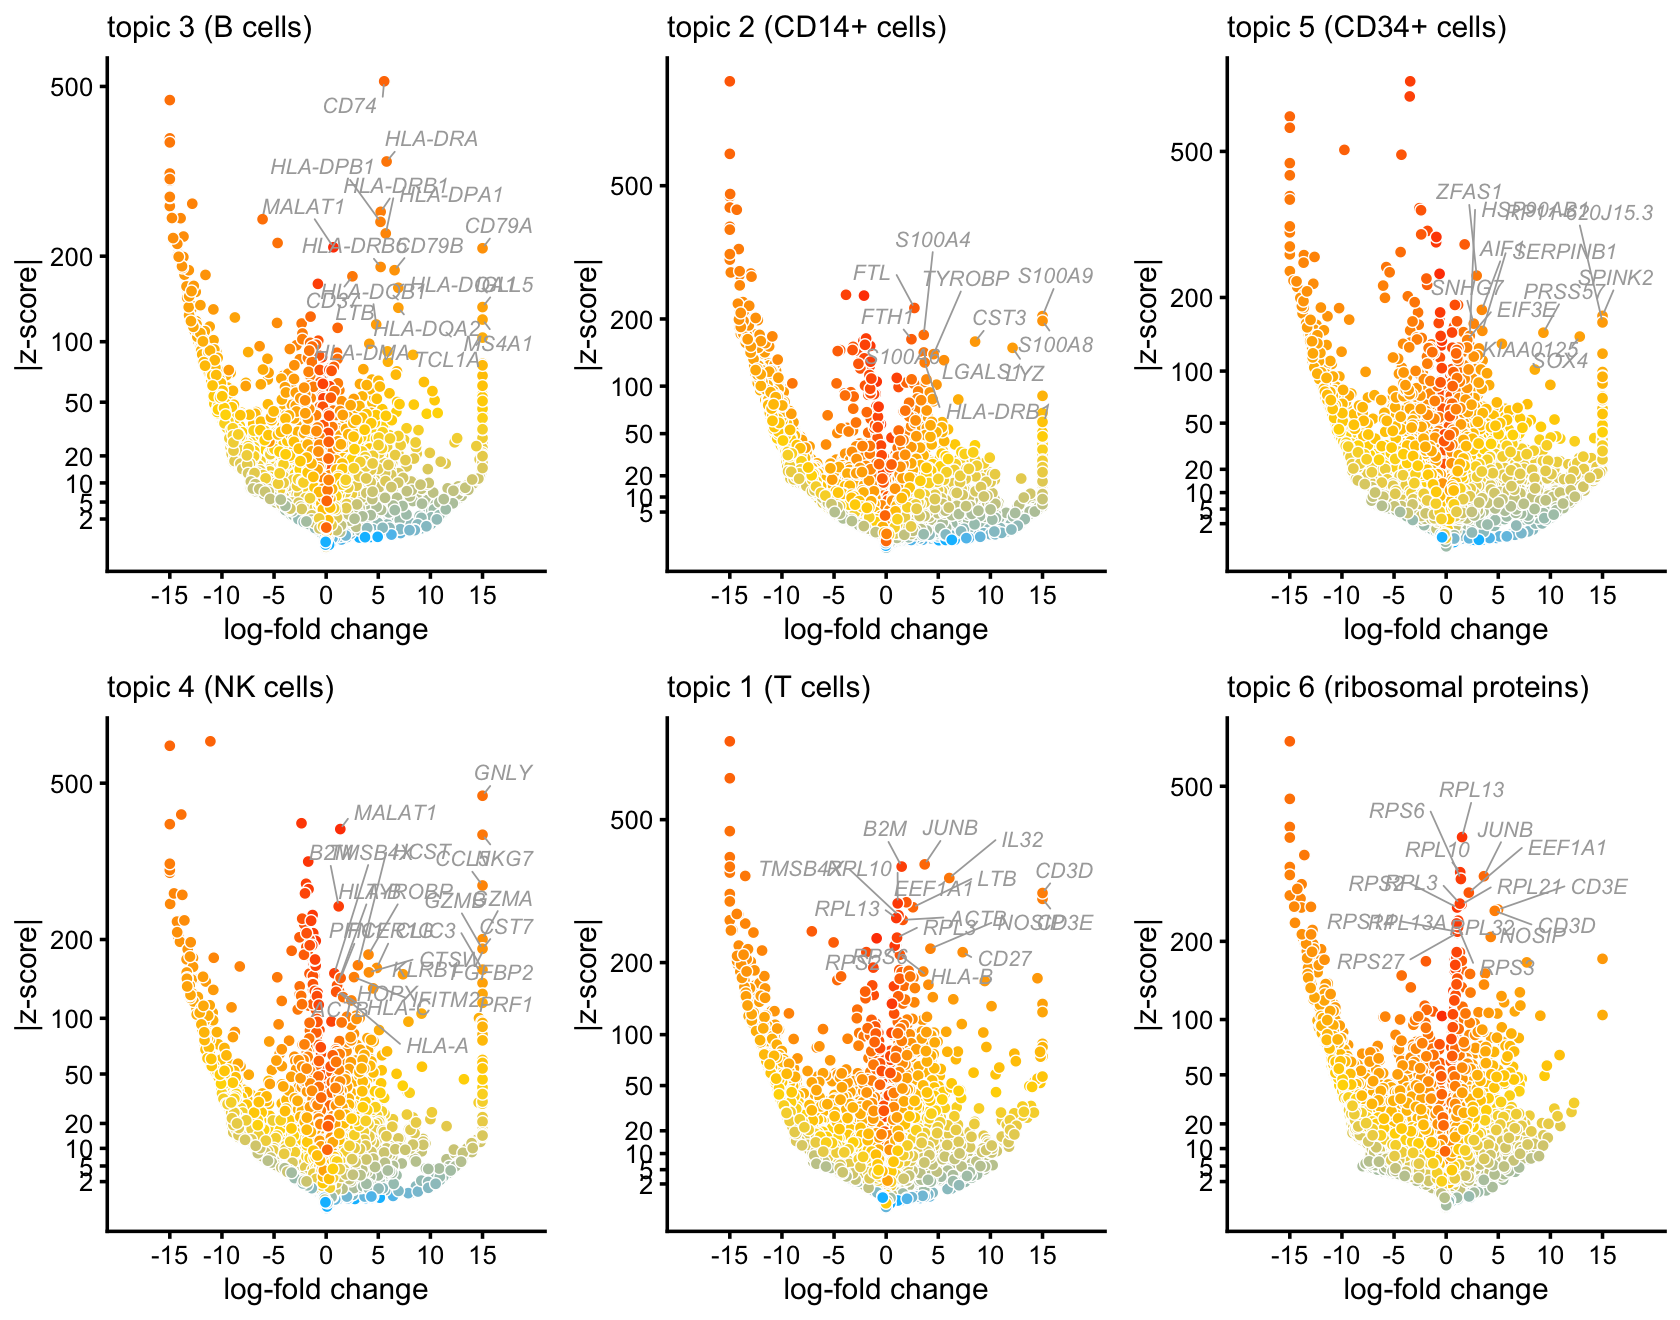
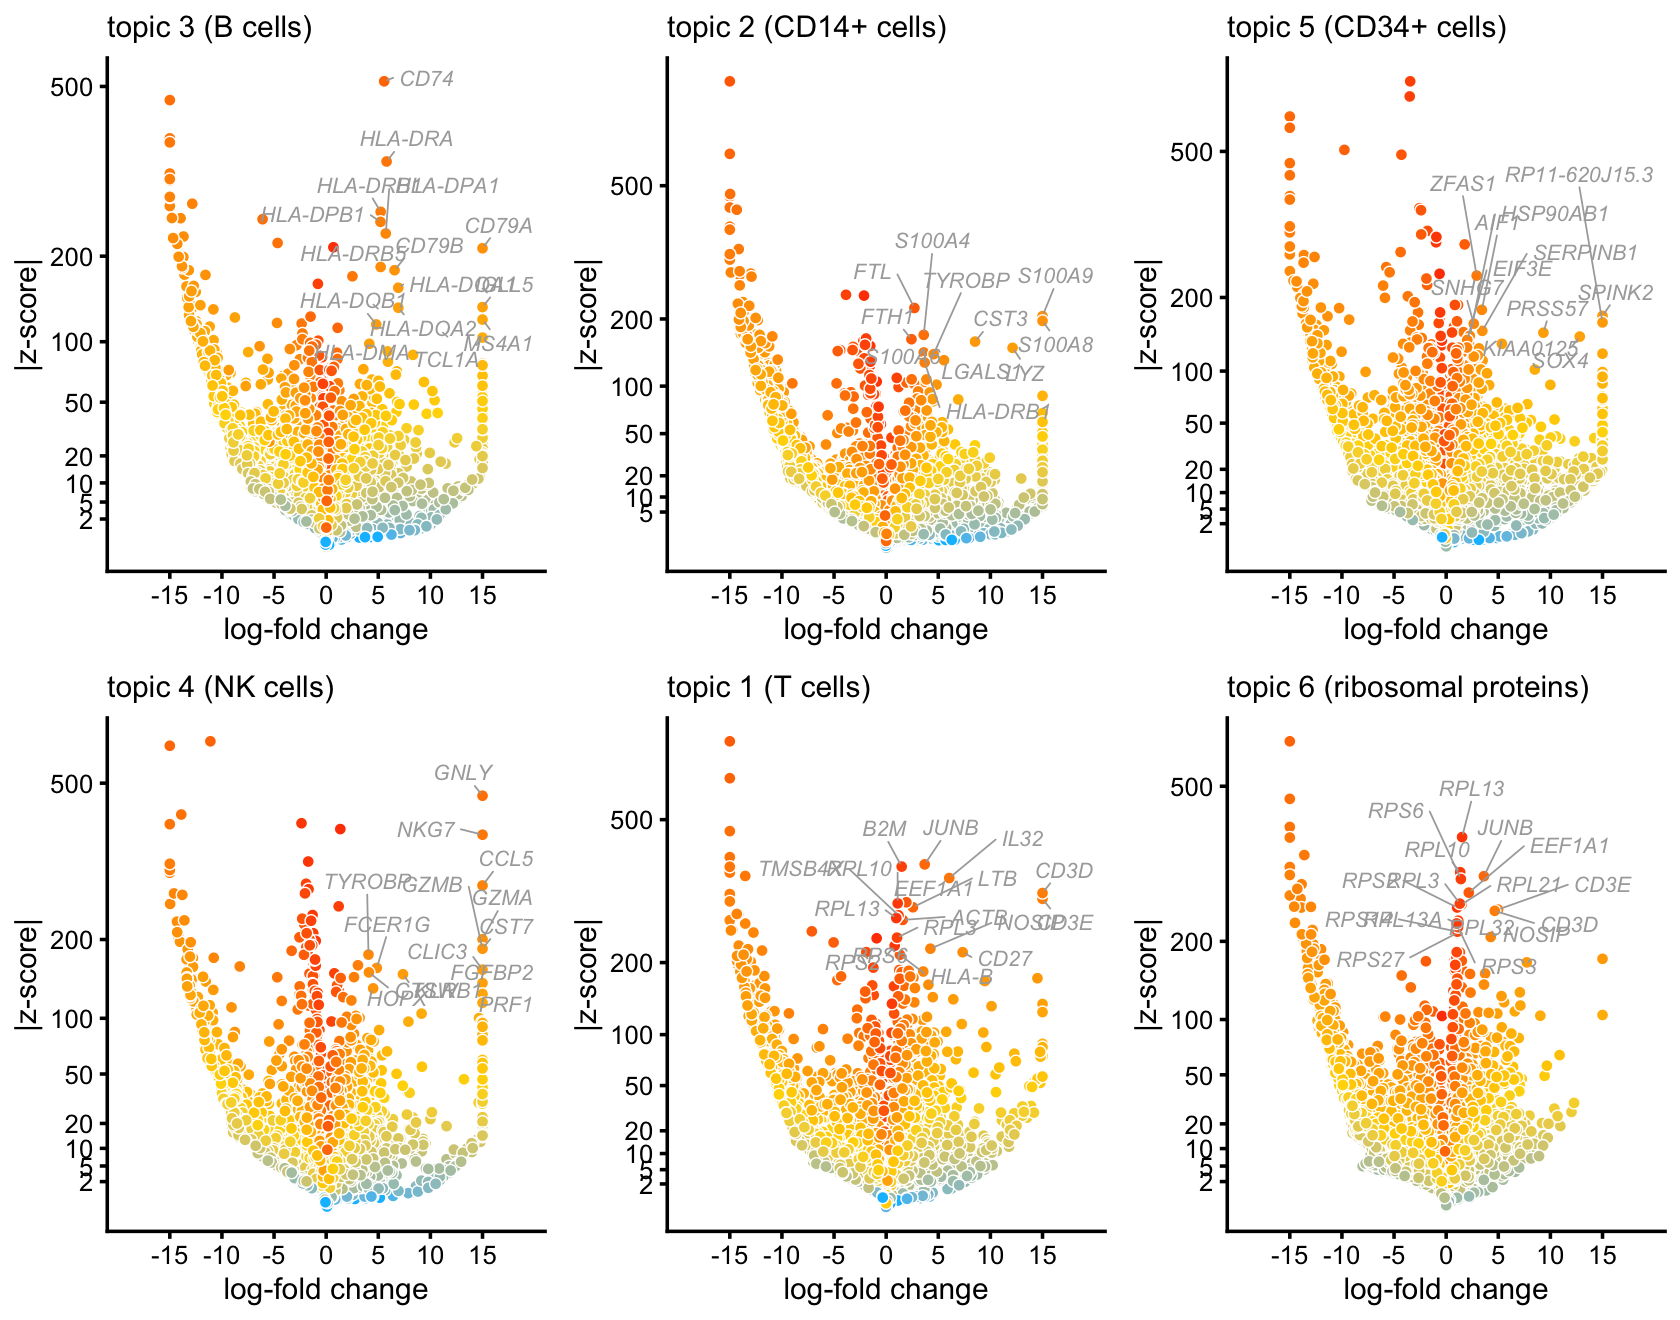
Re-built the plots_purified_pbmc analysis with the revised volcano plots.

diff --git a/docs/plots_purified_pbmc.html b/docs/plots_purified_pbmc.html
@@ -406,6 +406,9 @@ diff-count-analysis-subpop
 <li>
 diff-count-analysis-topics
 </li>
+<li>
+gsea-3
+</li>
 </ul>
 <p>To ensure reproducibility of the results, delete the cache directory <code>plots_purified_pbmc_cache</code> and re-run the analysis. To have workflowr automatically delete the cache directory prior to building the file, set <code>delete_cache = TRUE</code> when running <code>wflow_build()</code> or <code>wflow_publish()</code>.</p>
 </div>
@@ -426,23 +429,22 @@ diff-count-analysis-topics
 <div class="panel panel-default">
 <div class="panel-heading">
 <p class="panel-title">
-<a data-toggle="collapse" data-parent="#workflowr-checks" href="#strongRepositoryversionstrongahrefhttpsgithubcomstephenslabsinglecelltopicstree3d7de4182e5261c9c7c515c3bfb50331e818745ftargetblank3d7de41a"> <span class="glyphicon glyphicon-ok text-success" aria-hidden="true"></span> <strong>Repository version:</strong> <a href="https://github.com/stephenslab/single-cell-topics/tree/3d7de4182e5261c9c7c515c3bfb50331e818745f" target="_blank">3d7de41</a> </a>
+<a data-toggle="collapse" data-parent="#workflowr-checks" href="#strongRepositoryversionstrongahrefhttpsgithubcomstephenslabsinglecelltopicstreef79d2e8095d0c8b3b553b0156d90eb553f937925targetblankf79d2e8a"> <span class="glyphicon glyphicon-ok text-success" aria-hidden="true"></span> <strong>Repository version:</strong> <a href="https://github.com/stephenslab/single-cell-topics/tree/f79d2e8095d0c8b3b553b0156d90eb553f937925" target="_blank">f79d2e8</a> </a>
 </p>
 </div>
[2 lines of base64/hex data omitted]
 <div class="panel-body">
 <p>
 Great! You are using Git for version control. Tracking code development and connecting the code version to the results is critical for reproducibility.
 </p>
 <p>
-The results in this page were generated with repository version <a href="https://github.com/stephenslab/single-cell-topics/tree/3d7de4182e5261c9c7c515c3bfb50331e818745f" target="_blank">3d7de41</a>. See the <em>Past versions</em> tab to see a history of the changes made to the R Markdown and HTML files.
+The results in this page were generated with repository version <a href="https://github.com/stephenslab/single-cell-topics/tree/f79d2e8095d0c8b3b553b0156d90eb553f937925" target="_blank">f79d2e8</a>. See the <em>Past versions</em> tab to see a history of the changes made to the R Markdown and HTML files.
 </p>
 <p>
 Note that you need to be careful to ensure that all relevant files for the analysis have been committed to Git prior to generating the results (you can use <code>wflow_publish</code> or <code>wflow_git_commit</code>). workflowr only checks the R Markdown file, but you know if there are other scripts or data files that it depends on. Below is the status of the Git repository when the results were generated:
 </p>
 <pre><code>
 Ignored files:
-    Ignored:    analysis/figure/
     Ignored:    data/droplet.RData
     Ignored:    data/pbmc_68k.RData
     Ignored:    data/pbmc_purified.RData
@@ -460,14 +462,6 @@ Ignored files:
 
 Untracked files:
     Untracked:  analysis/plots_purified_pbmc_cache/
-    Untracked:  analysis/volcano_plot_purified_pbmc_bcells.html
-    Untracked:  analysis/volcano_plot_purified_pbmc_cd14.html
-    Untracked:  analysis/volcano_plot_purified_pbmc_cd34.html
-    Untracked:  analysis/volcano_plot_purified_pbmc_cd8.html
-    Untracked:  analysis/volcano_plot_purified_pbmc_dendritic.html
-    Untracked:  analysis/volcano_plot_purified_pbmc_nk.html
-    Untracked:  analysis/volcano_plot_purified_pbmc_ribosomal_proteins.html
-    Untracked:  analysis/volcano_plot_purified_pbmc_tcells.html
     Untracked:  plots/
 
 </code></pre>
@@ -507,6 +501,40 @@ Message
 </tr>
 </thead>
 <tbody>
+<tr>
+<td>
+Rmd
+</td>
+<td>
+<a href="https://github.com/stephenslab/single-cell-topics/blob/f79d2e8095d0c8b3b553b0156d90eb553f937925/analysis/plots_purified_pbmc.Rmd" target="_blank">f79d2e8</a>
+</td>
+<td>
+Peter Carbonetto
+</td>
+<td>
+2021-02-24
+</td>
+<td>
+workflowr::wflow_publish(“plots_purified_pbmc.Rmd”)
+</td>
+</tr>
+<tr>
+<td>
+html
+</td>
+<td>
+<a href="https://rawcdn.githack.com/stephenslab/single-cell-topics/7be2e951d43dd446b79ff12d090b01d837e6f9b0/docs/plots_purified_pbmc.html" target="_blank">7be2e95</a>
+</td>
+<td>
+Peter Carbonetto
+</td>
+<td>
+2021-02-24
+</td>
+<td>
+Rebuilt the plots_purified_pbmc analysis.
+</td>
+</tr>
 <tr>
 <td>
 Rmd
@@ -1251,7 +1279,8 @@ p2 &lt;- volcano_plot(diff_count_facs,&quot;CD14+ Monocyte&quot;,genes$symbol,
   guides(fill = &quot;none&quot;) +
   ggtitle(&quot;CD14+ cells&quot;)
 p3 &lt;- volcano_plot(diff_count_facs,&quot;CD34+&quot;,genes$symbol,
-                   betamax = 10,label_above_quantile = 0.995,
+                   betamax = 10,label_above_lfc = 2,
+                   label_above_quantile = 0.995,
                    subsample_below_quantile = 0.5) +
   guides(fill = &quot;none&quot;) +
   ggtitle(&quot;CD34+ cells&quot;)
@@ -1294,6 +1323,17 @@ Date
 </tr>
 </thead>
 <tbody>
+<tr>
+<td>
+<a href="https://github.com/stephenslab/single-cell-topics/blob/7be2e951d43dd446b79ff12d090b01d837e6f9b0/docs/figure/plots_purified_pbmc.Rmd/volcano-plots-1-1.png" target="_blank">7be2e95</a>
+</td>
+<td>
+Peter Carbonetto
+</td>
+<td>
+2021-02-24
+</td>
+</tr>
 <tr>
 <td>
 <a href="https://github.com/stephenslab/single-cell-topics/blob/6e2b53a4ce7c3997daf85bbed933269242aadcf4/docs/figure/plots_purified_pbmc.Rmd/volcano-plots-1-1.png" target="_blank">6e2b53a</a>
@@ -1451,43 +1491,36 @@ diff_count_clusters &lt;- diff_count_clusters(samples$cluster,counts)
                    subsample_below_quantile = 0.5) +
   guides(fill = &quot;none&quot;) +
   ggtitle(&quot;B cells&quot;)
-# 12074 out of 21952 data points will be included in plot
 p8 &lt;- volcano_plot(diff_count_clusters,&quot;CD14+&quot;,genes$symbol,betamax = 10,
                    label_above_quantile = 0.993,
                    subsample_below_quantile = 0.5) +
   guides(fill = &quot;none&quot;) +
   ggtitle(&quot;CD14+ cells&quot;)
-# 12074 out of 21952 data points will be included in plot
 p9 &lt;- volcano_plot(diff_count_clusters,&quot;CD34+&quot;,genes$symbol,betamax = 10,
-                   label_above_lfc = 4,label_above_quantile = 0.98,
+                   label_above_lfc = 4,label_above_quantile = 0.99,
                    subsample_below_quantile = 0.5) +
   guides(fill = &quot;none&quot;) +
   ggtitle(&quot;CD34+ cells&quot;)
-# 12074 out of 21952 data points will be included in plot
-p10 &lt;- volcano_plot(diff_count_clusters,&quot;dendritic&quot;,genes$symbol,
-                    label_above_lfc = 4,label_above_quantile = 0.95,
+p10 &lt;- volcano_plot(diff_count_clusters,&quot;dendritic&quot;,genes$symbol,betamax = 10,
+                    label_above_lfc = 4,label_above_quantile = 0.98,
                     subsample_below_quantile = 0.5) +
   guides(fill = &quot;none&quot;) +
   ggtitle(&quot;dendritic cells&quot;)
-# 12074 out of 21952 data points will be included in plot
-p11 &lt;- volcano_plot(diff_count_clusters,&quot;NK&quot;,genes$symbol,
-                    label_above_quantile = 0.995,
+p11 &lt;- volcano_plot(diff_count_clusters,&quot;NK&quot;,genes$symbol,betamax = 10,
+                    label_above_lfc = 2,label_above_quantile = 0.995,
                     subsample_below_quantile = 0.5) +
   guides(fill = &quot;none&quot;) +
   ggtitle(&quot;NK cells&quot;)
-# 12074 out of 21952 data points will be included in plot
-p12 &lt;- volcano_plot(diff_count_clusters,&quot;CD8+&quot;,genes$symbol,
+p12 &lt;- volcano_plot(diff_count_clusters,&quot;CD8+&quot;,genes$symbol,betamax = 10,
                     label_above_lfc = 2,label_above_quantile = 0.98,
                     subsample_below_quantile = 0.5) +
   guides(fill = &quot;none&quot;) +
   ggtitle(&quot;CD8+ T cells&quot;)
-# 12091 out of 21952 data points will be included in plot
-p13 &lt;- volcano_plot(diff_count_clusters,&quot;T&quot;,genes$symbol,
+p13 &lt;- volcano_plot(diff_count_clusters,&quot;T&quot;,genes$symbol,betamax = 10,
                     label_above_lfc = 2,label_above_quantile = 0.995,
                     subsample_below_quantile = 0.5) +
   guides(fill = &quot;none&quot;) +
   ggtitle(&quot;T cells&quot;)
-# 12074 out of 21952 data points will be included in plot
 plot_grid(p7,p8,p9,p10,p11,p12,p13,nrow = 3,ncol = 3)</code></pre>
 <p><img src="figure/plots_purified_pbmc.Rmd/volcano-plots-2-1.png" width="840" style="display: block; margin: auto;" /></p>
 <p>
@@ -1512,6 +1545,17 @@ Date
 </tr>
 </thead>
 <tbody>
+<tr>
+<td>
+<a href="https://github.com/stephenslab/single-cell-topics/blob/7be2e951d43dd446b79ff12d090b01d837e6f9b0/docs/figure/plots_purified_pbmc.Rmd/volcano-plots-2-1.png" target="_blank">7be2e95</a>
+</td>
+<td>
+Peter Carbonetto
+</td>
+<td>
+2021-02-24
+</td>
+</tr>
 <tr>
 <td>
 <a href="https://github.com/stephenslab/single-cell-topics/blob/6e2b53a4ce7c3997daf85bbed933269242aadcf4/docs/figure/plots_purified_pbmc.Rmd/volcano-plots-2-1.png" target="_blank">6e2b53a</a>
@@ -1663,7 +1707,7 @@ diff_count_topics &lt;- diff_count_analysis(fit_no_dendritic,counts[rows,])
 </div>
 <p>These volcano plots summarize the results of the differential expression analysis using the topic model:</p>
 <pre class="r"><code>p14 &lt;- volcano_plot(diff_count_topics,&quot;k3&quot;,genes$symbol,
-                    label_above_quantile = 0.995,
+                    label_above_lfc = 4,label_above_quantile = 0.995,
                     subsample_below_quantile = 0.5) +
   guides(fill = &quot;none&quot;) +
   ggtitle(&quot;topic 3 (B cells)&quot;)
@@ -1678,7 +1722,7 @@ p16 &lt;- volcano_plot(diff_count_topics,&quot;k5&quot;,genes$symbol,
   guides(fill = &quot;none&quot;) +
   ggtitle(&quot;topic 5 (CD34+ cells)&quot;)
 p17 &lt;- volcano_plot(diff_count_topics,&quot;k4&quot;,genes$symbol,
-                    label_above_quantile = 0.995,
+                    label_above_lfc = 4,label_above_quantile = 0.995,
                     subsample_below_quantile = 0.5) +
   guides(fill = &quot;none&quot;) +
   ggtitle(&quot;topic 4 (NK cells)&quot;)
@@ -1716,6 +1760,17 @@ Date
 </tr>
 </thead>
 <tbody>
+<tr>
+<td>
+<a href="https://github.com/stephenslab/single-cell-topics/blob/7be2e951d43dd446b79ff12d090b01d837e6f9b0/docs/figure/plots_purified_pbmc.Rmd/volcano-plots-3-1.png" target="_blank">7be2e95</a>
+</td>
+<td>
+Peter Carbonetto
+</td>
+<td>
+2021-02-24
+</td>
+</tr>
 <tr>
 <td>
 <a href="https://github.com/stephenslab/single-cell-topics/blob/6e2b53a4ce7c3997daf85bbed933269242aadcf4/docs/figure/plots_purified_pbmc.Rmd/volcano-plots-3-1.png" target="_blank">6e2b53a</a>
@@ -1792,49 +1847,41 @@ Peter Carbonetto
                genes$symbol,title = &quot;topic 3 (B cells)&quot;,
                subsample_below_quantile = 0.5,
                width = 450,height = 500)
-# 12049 out of 21952 data points will be included in plot
 volcano_plotly(diff_count_topics,&quot;k2&quot;,
                &quot;volcano_plot_purified_pbmc_cd14.html&quot;,
                genes$symbol,title = &quot;topic 2 (CD14+)&quot;,
                subsample_below_quantile = 0.5,
                width = 450,height = 500)
-# 12049 out of 21952 data points will be included in plot
 volcano_plotly(diff_count_topics,&quot;k5&quot;,
                &quot;volcano_plot_purified_pbmc_cd34.html&quot;,
                genes$symbol,title = &quot;topic 5 (CD34+)&quot;,
                subsample_below_quantile = 0.5,
                width = 450,height = 500)
-# 12049 out of 21952 data points will be included in plot
 volcano_plotly(diff_count_topics,&quot;k4&quot;,
                &quot;volcano_plot_purified_pbmc_nk.html&quot;,
                genes$symbol,title = &quot;topic 4 (NK cells)&quot;,
                subsample_below_quantile = 0.5,
                width = 450,height = 500)
-# 12049 out of 21952 data points will be included in plot
 volcano_plotly(diff_count_topics,&quot;k1&quot;,
                &quot;volcano_plot_purified_pbmc_tcells.html&quot;,
                genes$symbol,title = &quot;topic 1 (T cells)&quot;,
                subsample_below_quantile = 0.5,
                width = 450,height = 500)
-# 12049 out of 21952 data points will be included in plot
 volcano_plotly(diff_count_topics,&quot;k6&quot;,
                &quot;volcano_plot_purified_pbmc_ribosomal_proteins.html&quot;,
                genes$symbol,title = &quot;topic 6 (ribosomal proteins)&quot;,
                subsample_below_quantile = 0.5,
                width = 450,height = 500)
-# 12049 out of 21952 data points will be included in plot
 volcano_plotly(diff_count_clusters,&quot;CD8+&quot;,
                &quot;volcano_plot_purified_pbmc_cd8.html&quot;,
                genes$symbol,title = &quot;CD8+ cluster&quot;,
                subsample_below_quantile = 0.5,
                width = 450,height = 500)
-# 12091 out of 21952 data points will be included in plot
 volcano_plotly(diff_count_clusters,&quot;dendritic&quot;,
                &quot;volcano_plot_purified_pbmc_dendritic.html&quot;,
                genes$symbol,title = &quot;dendritic cells cluster&quot;,
                subsample_below_quantile = 0.5,
-               width = 450,height = 500)
-# 12074 out of 21952 data points will be included in plot</code></pre>
+               width = 450,height = 500)</code></pre>
 <p>The interactive volcano plots may also be viewed by clicking these links: <a href="volcano_plot_purified_pbmc_bcells.html">topic 3 (B cells)</a>, <a href="volcano_plot_purified_pbmc_nk.html">topic 4 (NK cells)</a>, <a href="volcano_plot_purified_pbmc_cd14.html">topic 2 (CD14+)</a>, <a href="volcano_plot_purified_pbmc_cd34.html">topic 5 (CD34+)</a>, <a href="volcano_plot_purified_pbmc_tcells.html">topics 1 (T cells)</a>, <a href="volcano_plot_purified_pbmc_ribosomal_proteins.html">topics 6 (T cells)</a>, <a href="volcano_plot_purified_pbmc_cd8.html">CD8+ cluster</a> and <a href="volcano_plot_purified_pbmc_dendritic.html">dendritic cells cluster</a>.</p>
 <p>The volcano plot for topic 6 suggests an enrichment of ribosomal protein genes. Indeed, there is a very strong correlation between the topic 6 mixture proportion and the fraction of total expression attributed to ribosomal genes:</p>
 <pre class="r"><code>rpgenes &lt;- c(&quot;RPS2&quot;,&quot;RPS3&quot;,&quot;RPS3A&quot;,&quot;RPS4X&quot;,&quot;RPS6&quot;,&quot;RPS7&quot;,&quot;RPS8&quot;,&quot;RPS9&quot;,
@@ -1981,7 +2028,7 @@ saveWidget(p,&quot;gsea_plot.html&quot;,selfcontained = TRUE)</code></pre>
 # 
 # other attached packages:
 # [1] htmlwidgets_1.5.1 plotly_4.9.2      cowplot_1.0.0     ggrepel_0.9.0    
-# [5] ggplot2_3.3.0     fgsea_1.15.1      fastTopics_0.5-18 Matrix_1.2-18    
+# [5] ggplot2_3.3.0     fgsea_1.15.1      fastTopics_0.5-20 Matrix_1.2-18    
 # 
 # loaded via a namespace (and not attached):
 #  [1] httr_1.4.2           tidyr_1.0.0          splines_3.6.2       
